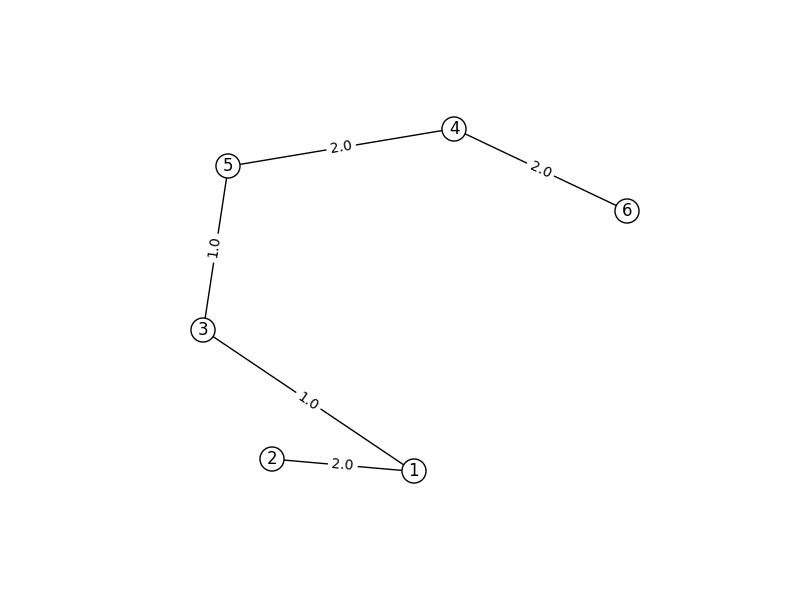
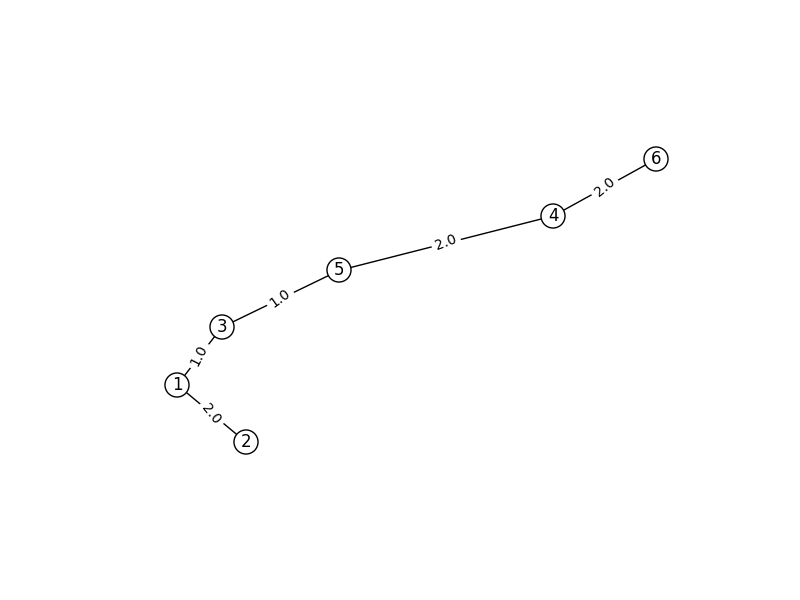
deletar arquivos desnessarios

diff --git a/fluxos/lista1/grafo-a.py b/fluxos/lista1/grafo-a.py
@@ -1,6 +1,7 @@
+#!/usr/bin/env python2
 # -*- coding: utf-8 -*-
 """
-Created on Thu Mar 24 21:36:04 2016
+Created on Sun Mar 27 01:20:46 2016
 
 @author: caioau
 """
@@ -8,32 +9,27 @@ Created on Thu Mar 24 21:36:04 2016
 import matplotlib.pyplot as plt
 import networkx as nx
 
-G = nx.DiGraph() # G eh um grafo direcionado
 
-G.add_weighted_edges_from([(1,2,2.0),(1,3,2.0),(1,4,3.0),(2,5,5.0),(3,2,4.0),(3,5,3.0),(4,3,1.0),(4,5,0.0)])
+def main():
+    G = nx.Graph()  # G eh um grafo direcionado
+    # gera o grafo apartir de suas arestas
+    G.add_weighted_edges_from([(1, 2, 2.0), (1, 3, 2.0), (1, 4, 3.0), (2, 5, 5.0), (3, 2, 4.0), (3, 5, 3.0), (4, 3, 1.0), (4, 5, 0.0)])
+    desenhaGrafo(G, "grafo-a.png")
+    T = nx.minimum_spanning_tree(G)
+    desenhaGrafo(T, "arv-min-a.png")
 
-edge_labels=dict([((u,v,),d['weight']) # gera os labels das arestas
-                 for u,v,d in G.edges(data=True)])
-pos = nx.spectral_layout(G,weight=None) # obtem a posicao dos nos (para desenhalo)
-#nx.draw_spectral(G)
-nx.draw_networkx_edges(G,pos) # desenha as arestas
-nx.draw_networkx_labels(G,pos) # desenha os labels das arestas
-nx.draw_networkx_edge_labels(G,pos,edge_labels=edge_labels) # desenha os labels dos nos
-nx.draw_networkx_nodes(G,pos,node_color='w') # desenha os nos
-plt.axis('off') # desativa os eixos
-plt.savefig("grafo-a.png")
-plt.close("all")
-H = nx.to_networkx_graph(G)
-T = nx.minimum_spanning_tree(H)
 
-edge_labels=dict([((u,v,),d['weight'])
-                 for u,v,d in T.edges(data=True)])
+def desenhaGrafo(G, pngfilename):  # desenha o grafo e salva numa imagem png
+    edge_labels = dict([((u, v,), d['weight'])  # gera os labels das arestas
+                                                for u, v, d in G.edges(data=True)])
+    pos = nx.spectral_layout(G, weight=None)  # obtem a posicao dos nos (para desenhalo) # TODO: desativar isso?
+    nx.draw_networkx_edges(G, pos)  # desenha as arestas
+    nx.draw_networkx_labels(G, pos)  # desenha os labels das arestas
+    nx.draw_networkx_edge_labels(G, pos, edge_labels=edge_labels)  # desenha os labels dos nos
+    nx.draw_networkx_nodes(G, pos, node_color='w')  # desenha os nos
+    plt.axis('off')  # desativa os eixos
+    plt.savefig(pngfilename)
+    plt.close("all")
 
-pos = nx.spectral_layout(T,weight=None)
-nx.draw_networkx_edges(T,pos)
-nx.draw_networkx_labels(T,pos)
-nx.draw_networkx_edge_labels(T,pos,edge_labels=edge_labels)
-nx.draw_networkx_nodes(T,pos,node_color='w')
-plt.axis('off')
-plt.savefig("arv-min-a.png")
-#print list(nx.simple_cycles(G))
+if __name__ == "__main__":
+    main()

diff --git a/fluxos/lista1/grafo-b.py b/fluxos/lista1/grafo-b.py
@@ -9,25 +9,25 @@ Created on Sun Mar 27 01:20:46 2016
 import matplotlib.pyplot as plt
 import networkx as nx
 
+
 def main():
-    G = nx.DiGraph() # G eh um grafo direcionado
-    # gera o grafo apartir de suas arestas 
-    G.add_weighted_edges_from([(1,2,2.0),(1,3,1.0),(2,3,3.0),(2,4,3.0),(3,5,1.0),(4,6,2.0),(5,4,2.0),(5,6,5.0)])
-    
-    desenhaGrafo(G,"grafo-b.png")
-    T = nx.minimum_spanning_tree(nx.to_networkx_graph(G))
-    desenhaGrafo(T,"arv-min-b.png")
+    G = nx.Graph()  # G eh um grafo direcionado
+    # gera o grafo apartir de suas arestas
+    G.add_weighted_edges_from([(1, 2, 2.0), (1, 3, 1.0), (2, 3, 3.0), (2, 4, 3.0), (3, 5, 1.0), (4, 6, 2.0), (5, 4, 2.0), (5, 6, 5.0)])
+    desenhaGrafo(G, "grafo-b.png")
+    T = nx.minimum_spanning_tree(G)
+    desenhaGrafo(T, "arv-min-b.png")
 
 
-def desenhaGrafo(G,pngfilename): # desenha o grafo e salva numa imagem png
-    edge_labels=dict([((u,v,),d['weight']) # gera os labels das arestas
-                    for u,v,d in G.edges(data=True)])
-    pos = nx.fruchterman_reingold_layout(G,weight=None) # obtem a posicao dos nos (para desenhalo) # TODO: desativar isso?
-    nx.draw_networkx_edges(G,pos) # desenha as arestas
-    nx.draw_networkx_labels(G,pos) # desenha os labels das arestas
-    nx.draw_networkx_edge_labels(G,pos,edge_labels=edge_labels) # desenha os labels dos nos
-    nx.draw_networkx_nodes(G,pos,node_color='w') # desenha os nos
-    plt.axis('off') # desativa os eixos
+def desenhaGrafo(G, pngfilename):  # desenha o grafo e salva numa imagem png
+    edge_labels = dict([((u, v,), d['weight'])  # gera os labels das arestas
+                                                for u, v, d in G.edges(data=True)])
+    pos = nx.graphviz_layout(G, prog='neato')  # obtem a posicao dos nos (para desenhalo) # TODO: desativar isso?
+    nx.draw_networkx_edges(G, pos)  # desenha as arestas
+    nx.draw_networkx_labels(G, pos)  # desenha os labels das arestas
+    nx.draw_networkx_edge_labels(G, pos, edge_labels=edge_labels)  # desenha os labels dos nos
+    nx.draw_networkx_nodes(G, pos, node_color='w')  # desenha os nos
+    plt.axis('off')  # desativa os eixos
     plt.savefig(pngfilename)
     plt.close("all")
 
